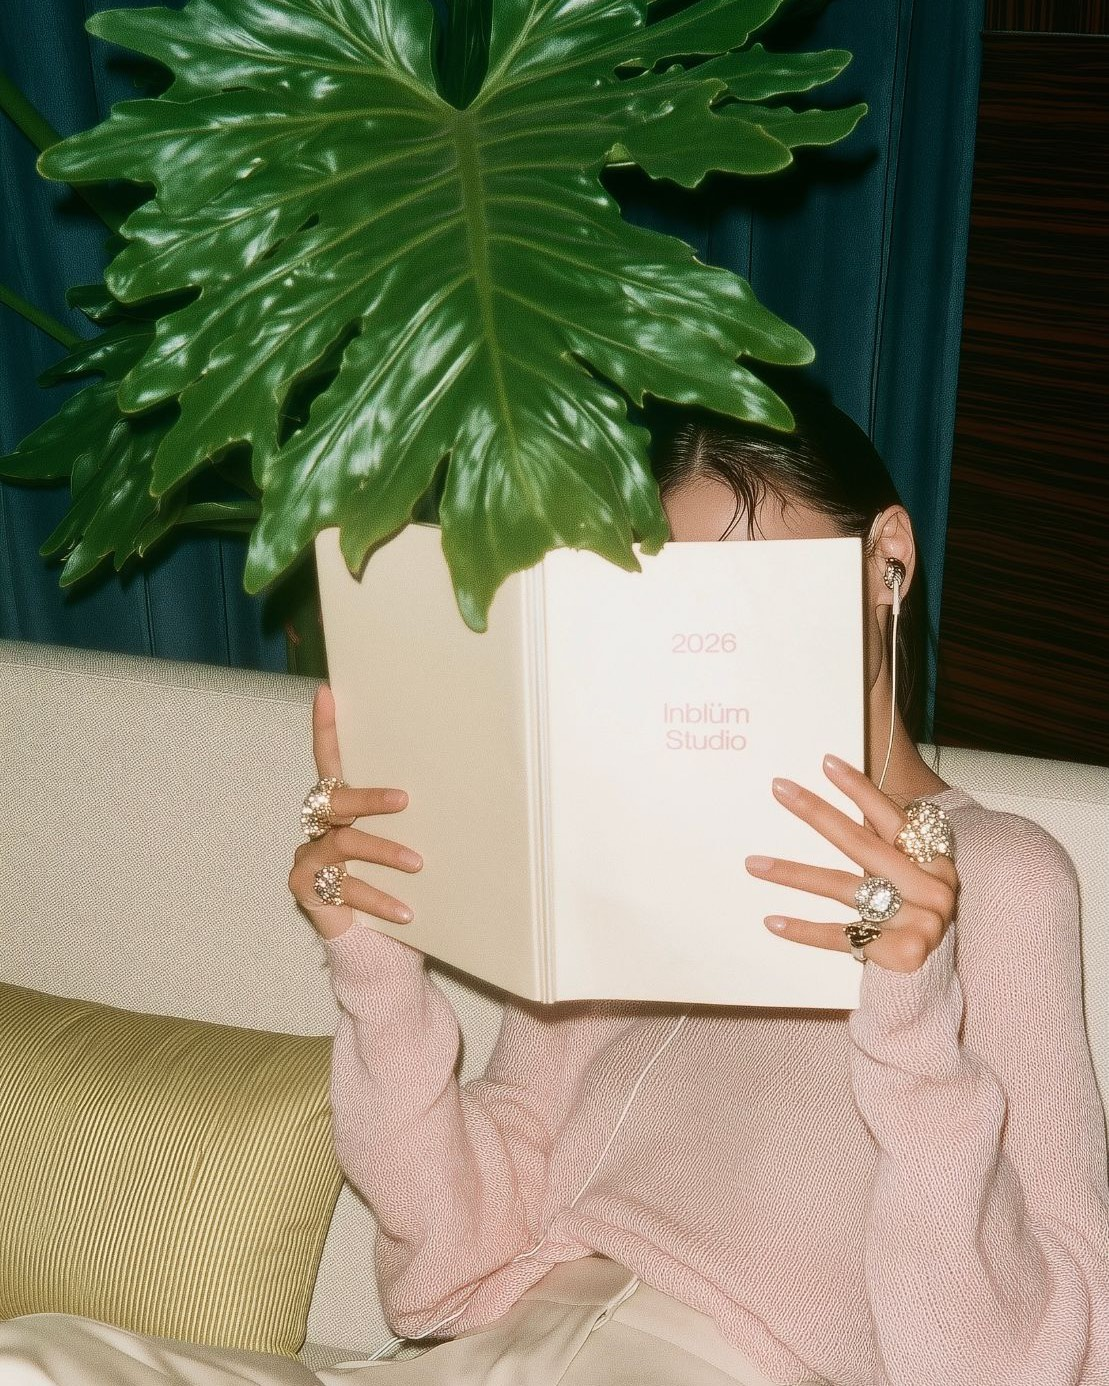
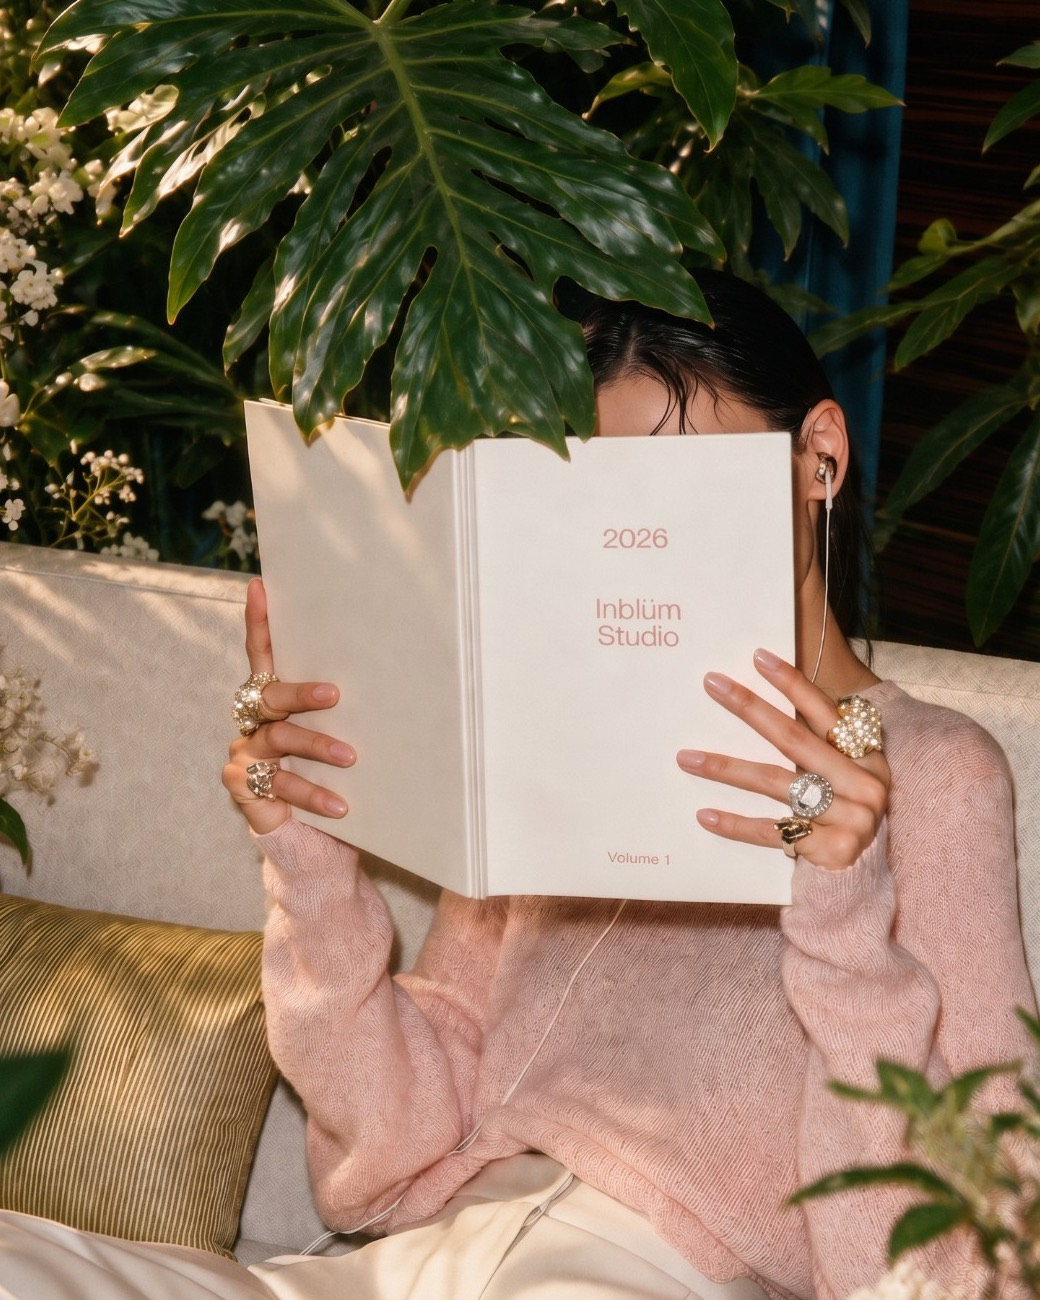
Apertura: el retrato es la foto con plantas y flores, con el libro al centro
Reemplaza la foto por la nueva versión (1109x2000, con plantas y flores
blancas alrededor). El recorte 4:5 (1040x1300) se centra en el libro en los
dos ejes: parte de 68 px del borde izquierdo y 316 px del de arriba, así que
el centro del marco es el centro del libro.

El src sube a ?v=8 con sus medidas nuevas, el texto alternativo describe la
foto («2026 Inblüm Studio, Volume 1», rodeada de plantas y flores blancas) y
el README documenta el encuadre.

diff --git a/index.html b/index.html
@@ -95,8 +95,8 @@
       </div>
 
       <figure class="ap-retrato">
-        <img src="assets/apertura/retrato.jpg?v=7" width="1109" height="1386" fetchpriority="high" decoding="async"
-             alt="Fotografía de una mujer sentada en un sofá que se cubre el rostro con un libro abierto, «2026 Inblüm Studio», detrás de la hoja grande de una planta">
+        <img src="assets/apertura/retrato.jpg?v=8" width="1040" height="1300" fetchpriority="high" decoding="async"
+             alt="Fotografía de una mujer sentada en un sofá que se cubre el rostro con un libro abierto, «2026 Inblüm Studio, Volume 1», rodeada de plantas y flores blancas">
       </figure>
     </div>
 

diff --git a/README.md b/README.md
@@ -93,10 +93,10 @@ en la sección 0 de `js/app.js`.
   | `logo-flor.jpg` | El recuadro de flores del logotipo | 851:1126 |
 
   Los textos alternativos están en `index.html`; cámbialos con la imagen. El
-  retrato es un recorte 4:5 (1109 × 1386 px) de una foto vertical de 1109 × 2000
-  px, tomado 210 px más abajo del borde de arriba: el libro queda cerca del centro
-  y la hoja de la planta se corta un poco arriba. Para subir o bajar el encuadre
-  hay que volver a recortar la foto original. Su `src` lleva un `?v=` con un
+  retrato es un recorte 4:5 (1040 × 1300 px) de una foto vertical de 1109 × 2000
+  px, centrado en el libro: se tomó desde 68 px del borde izquierdo y 316 px del
+  de arriba, así que el libro queda justo en el centro del marco. Para mover el
+  encuadre hay que volver a recortar la foto original. Su `src` lleva un `?v=` con un
   número: súbelo cada vez que cambies el archivo, para que nadie vea la copia
   vieja guardada en el navegador. La proporción del marco está en `aspect-ratio`
   de `.ap-retrato` (`css/styles.css`): con una imagen que no sea 4:5, por ejemplo
